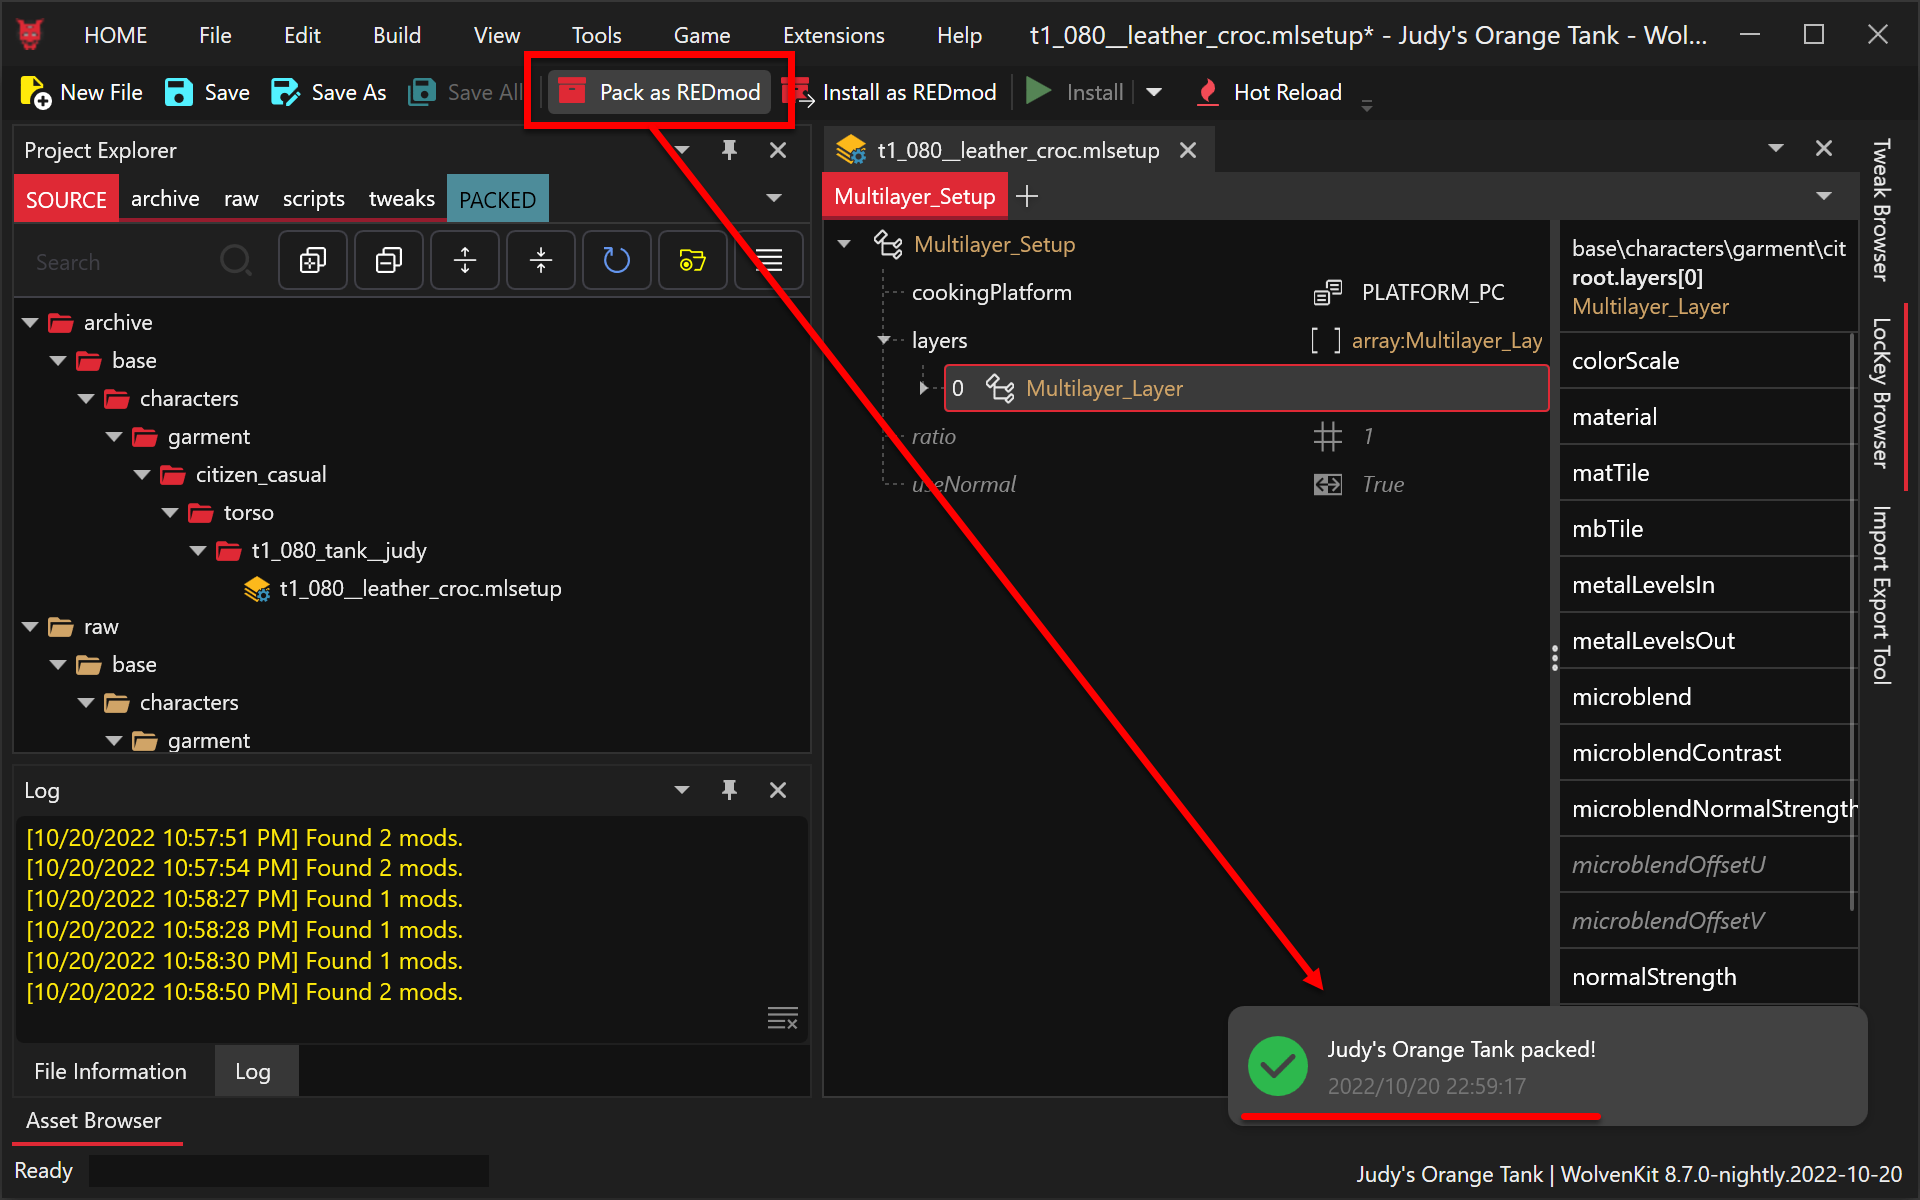
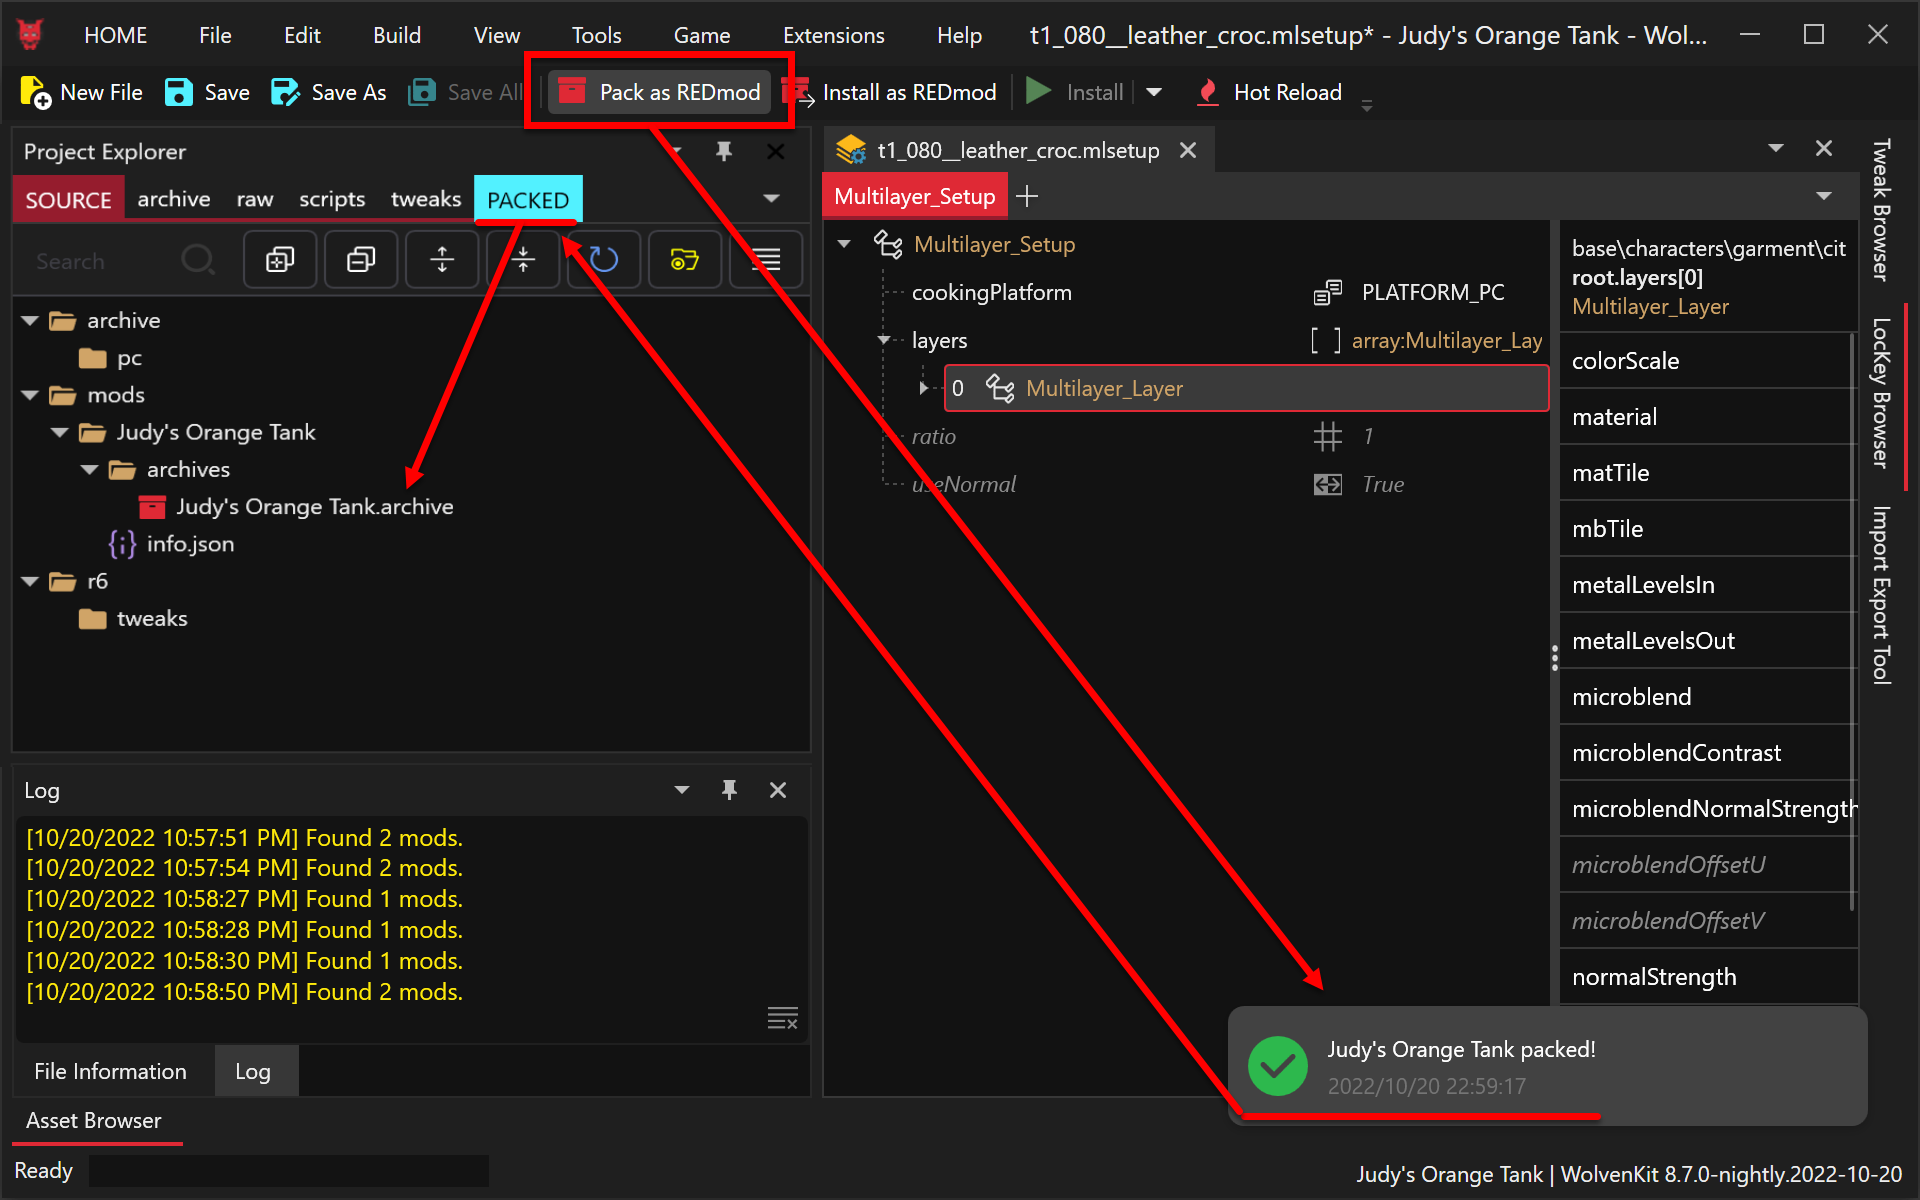
GitBook: [#260] Fixed header types, defined what Pack vs Install means on step 43-44

diff --git a/guides/modding-community/eli5-getting-started/validate-functionality.md b/guides/modding-community/eli5-getting-started/validate-functionality.md
@@ -6,7 +6,7 @@ description: >-
 
 # Validate Functionality
 
-### Section Brief
+## Section Brief
 
 This section is about validating the modding tools and potentially building your first mod.
 
@@ -45,13 +45,13 @@ Some of the steps below are unnecessary, but you need to learn how the ENT and A
 These steps get confusing. Remember that we’re using the entity file **tshirt\_08\_old\_02\_w.ent** to find the material layer file **t1\_080\_\_leather\_croc.mlsetup**
 {% endhint %}
 
-### Steps
+## Steps
 
 1.  To make sure you do not have any mod conflicts, please uninstall all Cyberpunk mods except for Material and Texture Override. This can normally be done by disabling the mods in Vortex or whatever mod managing application you use for your normal gameplay.
 
     <figure><img src="../../../.gitbook/assets/ELI5_GetStart_Validate_S01.png" alt=""><figcaption></figcaption></figure>
 2. Launch Cyberpunk 2077 and either load an existing woman character, or start a new one if you have to. If you start a new game, then you'll have to play up to the scav hunt with Jackie before you can swap your clothes.
-3. Once you reach a point in the game when you can change your clothes, run the Redscript command “Game.AddToInventory("Items.TShirt\_08\_old\_02",1)”. This will load Judy’s Tank in your torso inventory.
+3. Once you reach a point in the game when you can change your clothes, run the Cyber Engine Tweaks (CET) command “Game.AddToInventory("Items.TShirt\_08\_old\_02",1)”. This will load Judy’s Tank in your torso inventory.
 4.  Wear the shirt, take a screenshot, save the game, and then exit the game. This screenshot will be your reference to compare against when you have made the edit.
 
     <figure><img src="../../../.gitbook/assets/ELI5_GetStart_Validate_S04.png" alt=""><figcaption></figcaption></figure>
@@ -184,12 +184,14 @@ These steps get confusing. Remember that we’re using the entity file **tshirt\
 43. An asterisk will appear at the end of the File Viewer’s filename to show that unsaved changes were made to that file. Click on Save button to commit the changes. Now that this mlsetup only contains the layer you edited, there is a lower risk of it accidently affecting other mods that may alter different layers on this same asset.
 
     <figure><img src="../../../.gitbook/assets/ELI5_GetStart_Validate_S43.png" alt=""><figcaption></figcaption></figure>
-44. Click on the button Pack as REDmod to create the archive file that is our shiny new mod and look for the success notification on the bottom right.
+44. Notice the button Pack as REDmod. This button packs your asset files into an archive file, generates the required info.json, puts them into the necessary folder structure to install the mod into your game. This package can be viewed on the PACKED tab. Feel free to click the button Pack as REDmod to see what it does, it will not harm the mod, or else you can skip this step and just look at the screenshot below to see what it does.
 
     <figure><img src="../../../.gitbook/assets/ELI5_GetStart_Validate_S44.png" alt=""><figcaption></figcaption></figure>
-45. Click on the button Install as REDmod to deploy the archive file to the Cyberpunk game folder, which also adds it to the WolvenKit Mod Manager.
+45. Click the button **Install as REDmod**. This button will pack your mod just like **Pack as REDmod** did, and then it will also install the mod into your game folder. Let me repeat myself but with different words,
+    * Pack as REDmod generates the archive file,
+    *   Install as REDmod also generates the archive file and then install it to your gaming folder.
 
-    <figure><img src="../../../.gitbook/assets/ELI5_GetStart_Validate_S45.png" alt=""><figcaption></figcaption></figure>
+        <figure><img src="../../../.gitbook/assets/ELI5_GetStart_Validate_S45.png" alt=""><figcaption></figcaption></figure>
 46. Your new mod will be listed in the Cyberpunk 2077 REDmod folder
 
     <figure><img src="../../../.gitbook/assets/ELI5_GetStart_Validate_S46.png" alt=""><figcaption></figcaption></figure>

diff --git a/guides/modding-community/eli5-getting-started/create-depot.md b/guides/modding-community/eli5-getting-started/create-depot.md
@@ -6,7 +6,7 @@ description: >-
 
 # Create Depot
 
-### Section Brief
+## Section Brief
 
 There are three methods of creating and maintaining a depot.
 
@@ -14,7 +14,7 @@ There are three methods of creating and maintaining a depot.
 2. ****[**Partial Depot**](create-depot.md#steps-partial-depot) is mostly uncooked and unbundled, and it's only missing the GLB files. Unless you are needing that specific file type, this depot has everything you will need. The biggest benefit is that nearly everything is ready to use and that means very likely little to no pauses in your development. The biggest detractor is that it requires 120GiB of disk space.
 3. ****[**Full Depot**](create-depot.md#steps-full-depot) is every asset available to us. The biggest benefit is that everything is ready to use and that means no pauses in your development. The biggest detractor is that it requires 160GiB of disk space.
 
-### Steps: Adhoc Depot
+## Steps: Adhoc Depot
 
 {% hint style="info" %}
 Uncooking can be done in the Import/Export tool, but you will need to use WolvenKit.CLI for the unbundling anyway, so you might as well get used to the console commands.
@@ -45,7 +45,7 @@ Uncooking can be done in the Import/Export tool, but you will need to use Wolven
 
     <figure><img src="../../../.gitbook/assets/ELI5_GetStart_Depot_Adhoc_S06.png" alt=""><figcaption></figcaption></figure>
 
-### Steps: Partial Depot
+## Steps: Partial Depot
 
 {% hint style="info" %}
 Some of the unbundle files are already accessible in the WolvenKit Asset Browser. You may want to search for the files you want in Asset Browser before unbundling the game.
@@ -67,7 +67,7 @@ Some of the unbundle files are already accessible in the WolvenKit Asset Browser
 
     <figure><img src="../../../.gitbook/assets/ELI5_GetStart_Depot_Partial_S05.png" alt=""><figcaption></figcaption></figure>
 
-### Steps: Full Depot
+## Steps: Full Depot
 
 {% hint style="warning" %}
 When the unbundling and uncooking reaches 99% complete, press CTRL+C to cancel the program because without limiters it wll get stuck and never reach 100%&#x20;

diff --git a/guides/modding-community/eli5-getting-started/configure-modding-tools.md b/guides/modding-community/eli5-getting-started/configure-modding-tools.md
@@ -4,7 +4,7 @@ description: Set relative locations of modding tools inside the applications
 
 # Configure modding tools
 
-### Section Brief
+## Section Brief
 
 Configure the WolvenKit (wkit) application and MlSetupBuilder (mlsb), and make sure the Asset Browser loads the game's assets.
 
@@ -12,7 +12,7 @@ Configure the WolvenKit (wkit) application and MlSetupBuilder (mlsb), and make s
 If you do not use the folder structure I recommended in [Prep your computer](prep-your-computer.md#steps), then use whatever path WolvenKit automatically fills in for you. Also be aware that your experience will not match my screenshots.
 {% endhint %}
 
-### Steps
+## Steps
 
 1. Run the WolvenKit.exe application and the First Setup window will appear. Click on the folder icons to the right of each field:
    * _Game Executable Path_ -- Location of the game executable Cyberpunk2077.exe
@@ -21,7 +21,7 @@ If you do not use the folder structure I recommended in [Prep your computer](pre
 
        <figure><img src="../../../.gitbook/assets/ELI5_GetStart_Config_S01.png" alt=""><figcaption></figcaption></figure>
 2. Close WolvenKit and then restart it because as of 10/12/2022 there is a bug associated with a first time launch of WolvenKit that is fixed by restarting the application.
-3.  In WolvenKit, click on HOME then Plugins and click on Install/Update for every Plugin on the list, except for REDmod because it is installed through Steam or GOG. If you have not installed REDmod then please do step 6 - 7 on [Prep your computer](prep-your-computer.md#steps).
+3.  In WolvenKit, click on HOME then Plugins and click on Install/Update for every Plugin on the list, except for REDmod because it is installed through Steam or GOG. If you have not installed REDmod then please do step 6 - 7 on [Prep your computer](configure-modding-tools.md#steps).
 
     <figure><img src="../../../.gitbook/assets/ELI5_GetStart_Config_S03.png" alt=""><figcaption></figcaption></figure>
 4.  For MlSetupBuilder click on Open to configure it for your Depot and WolvenKit.CLI

diff --git a/guides/modding-community/eli5-getting-started/download-wolvenkit.md b/guides/modding-community/eli5-getting-started/download-wolvenkit.md
@@ -8,7 +8,7 @@ description: Download and extract the WolvenKit application and WolvenKit.CLI co
 
 There are two releases of WolvenKit with different release schedules and change management policies. You only need one of the releases, stable or nightly, don't bother downloading both.
 
-1. **Stable Release** has an as-needed release schedule based on Cyberpunk 2077 patch changes, WolvenKit bug fixes, updated WolvenKit functionality, and the realities of being a fan-made application by unpaid developers. Change management policies are an ass-is rollup from the latest Nightly release.
+1. **Stable Release** has an as-needed release schedule based on Cyberpunk 2077 patch changes, WolvenKit bug fixes, updated WolvenKit functionality, and the realities of being a fan-made application by unpaid developers. Change management policies are an as-is rollup from the latest Nightly release.
 2. **Nightly Release** has a release schedule of every night at 12:00 AM UTC and contains the last 24-hours of GitHub pull requests submitted by the WolvenKit developer community. Change management policies are a review and approval by the maintainer of the GitHub repository to merge the branch coding changes into the project.
 
 {% hint style="warning" %}
@@ -25,7 +25,7 @@ Delete previous release, download the new release, then extract and run it.
 
 WolvenKit is not technically installed, you extract the downloaded file into a folder and it runs as a [portable application](https://en.wikipedia.org/wiki/Portable\_application). When you update the application, you will want to delete all the files from the previous version and extract the new version in the previous version's place.
 
-### Steps:
+## Steps:
 
 1.  Delete all the files in C:\Cyberpunk2077\WolvenKit.CLI from the previous release so that any cached and orphaned files do not corrupt the updated release.
 

diff --git a/guides/modding-community/eli5-getting-started/prep-your-computer.md b/guides/modding-community/eli5-getting-started/prep-your-computer.md
@@ -7,11 +7,11 @@ description: >-
 
 # Prep your computer
 
-### Section Brief
+## Section Brief
 
 Prepare your computer with Windows configuration, basic software requirements, and creates a centralized modding location that will match what you will see in the ELI5 guide screenshots.
 
-### Steps
+## Steps
 
 1. Enable _Windows long path names_ and then reboot your computer. Here is a quick link if you want to do your own research [Google search](https://www.google.com/search?q=enable+Windows+long+path+names). For everyone else:
    *   **Step 1**: Run PowerShell as an administrator
